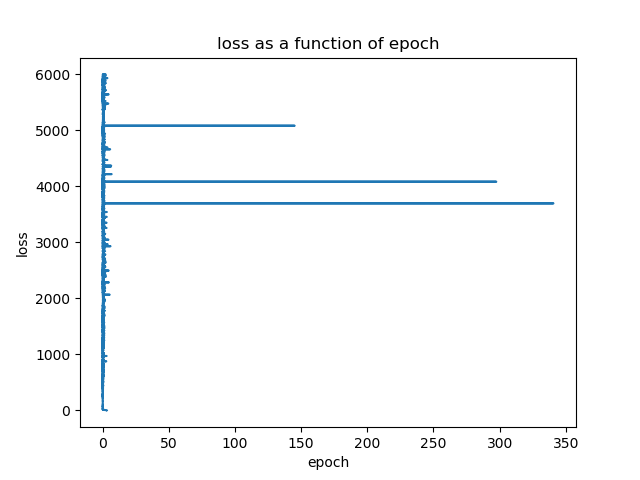
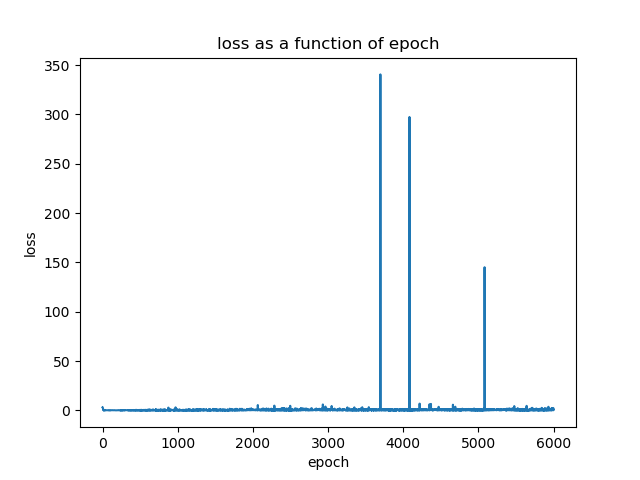
Png

diff --git a/plot.py b/plot.py
@@ -15,7 +15,7 @@ for data in output:
 plt.title("loss as a function of epoch")
 plt.xlabel("epoch")
 plt.ylabel("loss")
-plt.plot(output_data,[x  for x in range(len(output_data))])
+plt.plot([x  for x in range(len(output_data))],output_data)
 plt.savefig("loss_as_whole")
 print(output_data)
     
